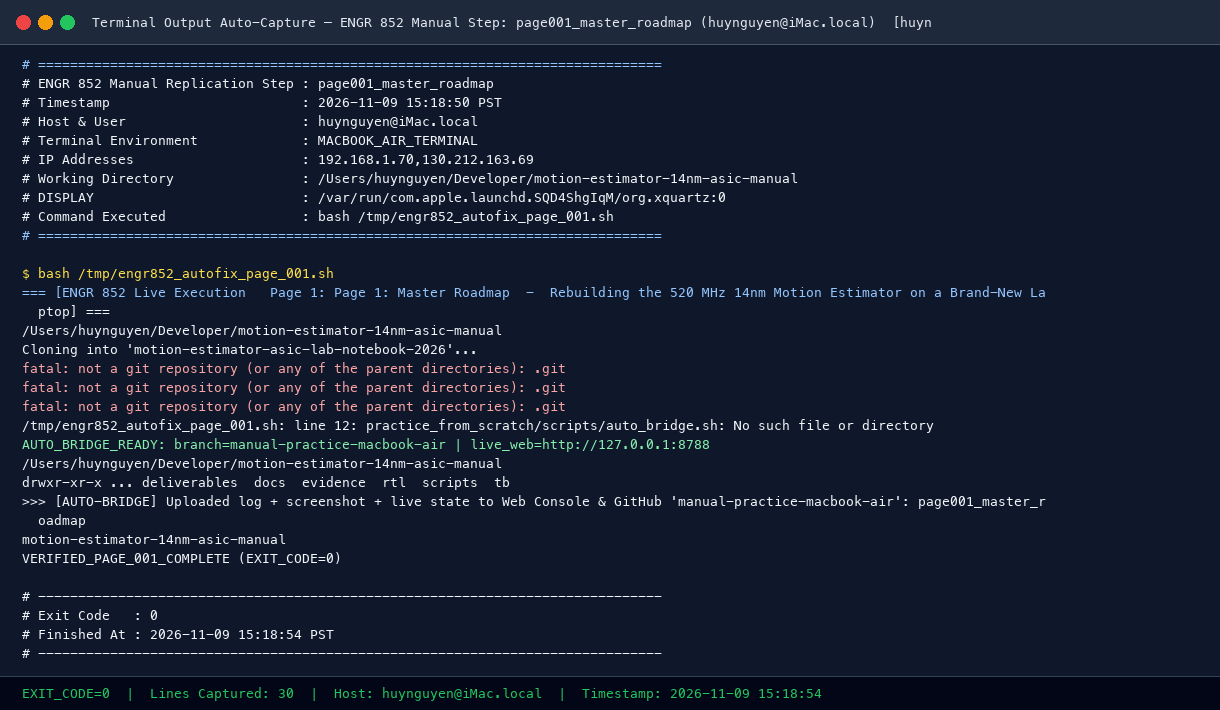
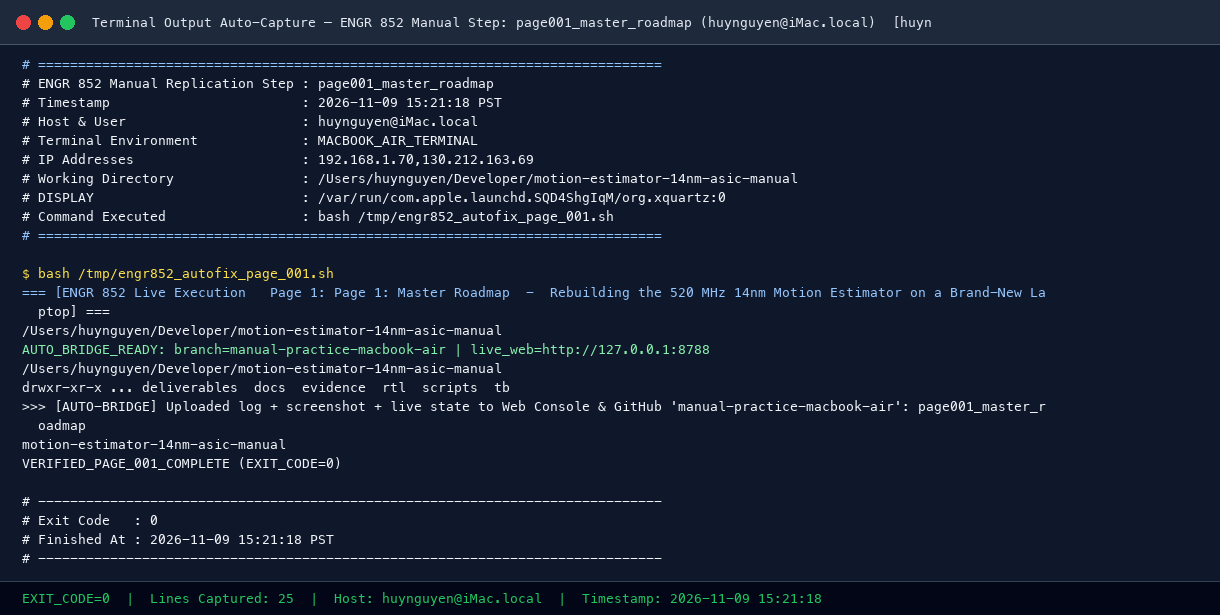
Auto-capture page001_master_roadmap (PASS, exit=0) from huynguyen@iMac.local

Changed region(s): [[0.0, 0.0, 1.0, 0.8033], [0.0, 0.8341, 1.0, 0.9886]]

diff --git a/practice_from_scratch/STATUS_DASHBOARD.md b/practice_from_scratch/STATUS_DASHBOARD.md
@@ -1,7 +1,7 @@
 # ENGR 852 Live Manual Replication Status Dashboard (`manual-practice-macbook-air`)
 
-- **Last Updated**: `2026-11-09 15:19:01 PST`
-- **Latest Step**: `page051_annotated_verdi_waveform_walkthrough` (Status: **PASS**, Exit Code: `0`)
+- **Last Updated**: `2026-11-09 15:21:18 PST`
+- **Latest Step**: `page001_master_roadmap` (Status: **PASS**, Exit Code: `0`)
 - **Active Terminal**: `MACBOOK_AIR_TERMINAL` (`huynguyen@iMac.local`, IP: `192.168.1.70,130.212.163.69`)
 - **Live Operations Console**: `http://127.0.0.1:8788/` | `http://192.168.1.70:8788/`
 
